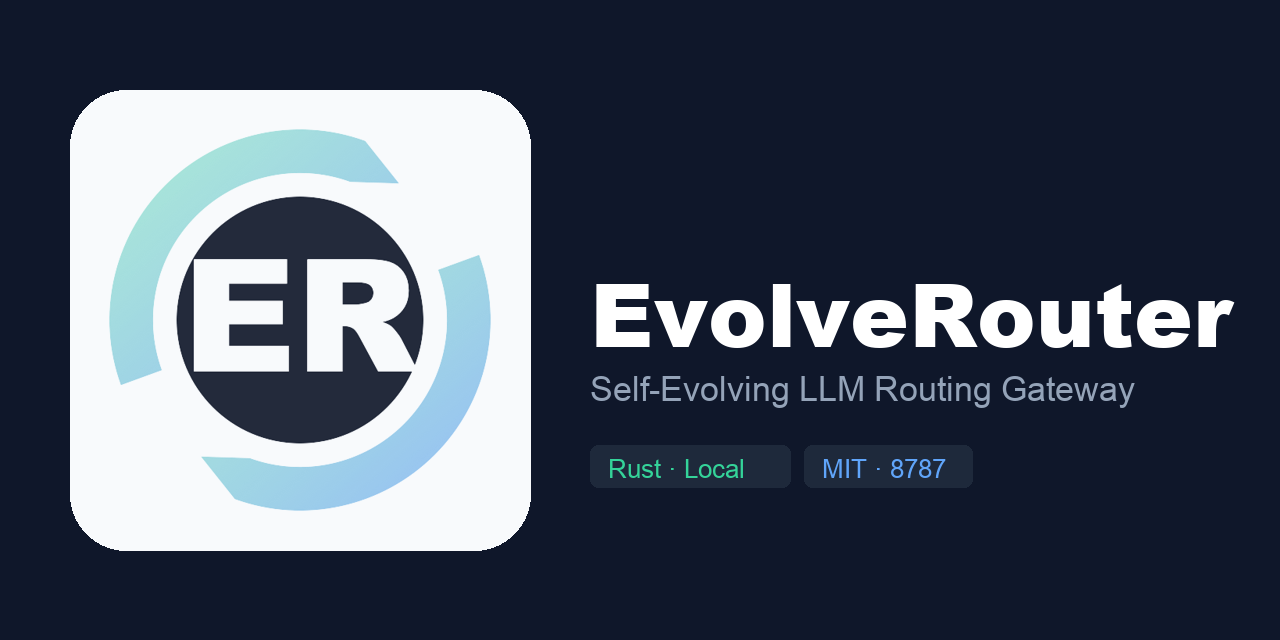
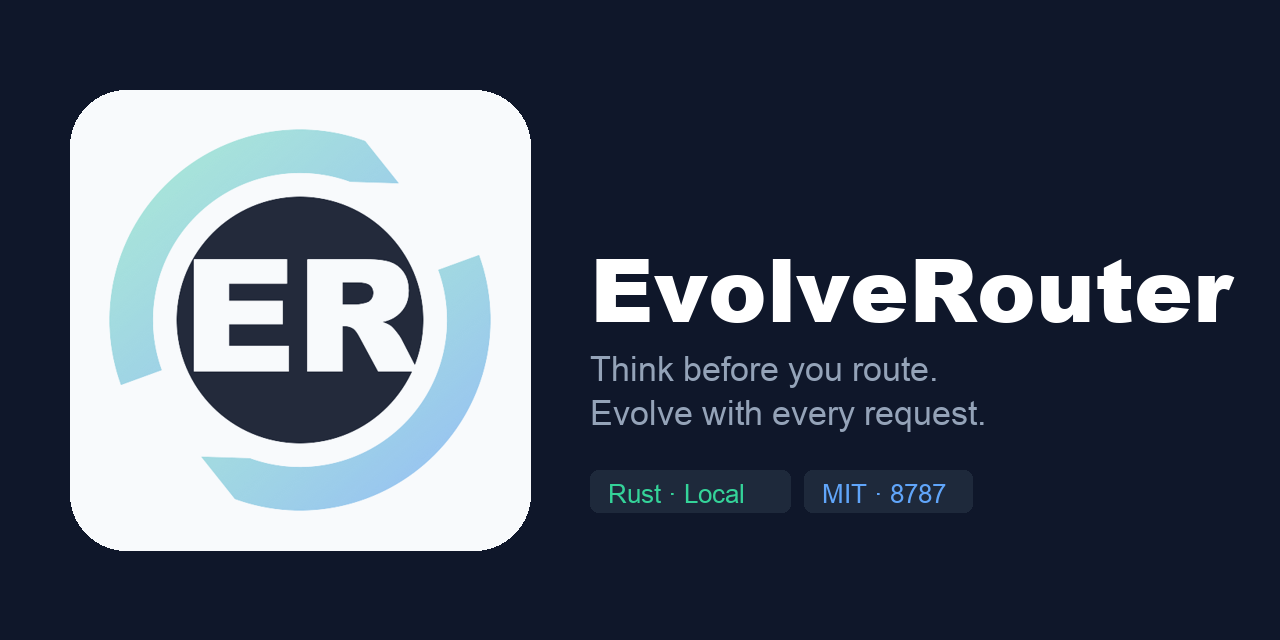
docs(brand): 定稿 Slogan 双语落地——H1 主 Slogan / 首屏副 Slogan+8 信号说明 / 正文产品描述（中英同步）+ social preview 卡副标题换新 Slogan

Changed region(s): [[0.4375, 0.4062, 0.9688, 0.6875], [0.625, 0.7188, 0.75, 0.7812], [0.4688, 0.7188, 0.5938, 0.7812]]

diff --git a/README.md b/README.md
@@ -2,9 +2,7 @@
 
 <img src="docs/assets/logo.png" width="128" alt="EvolveRouter logo">
 
-# EvolveRouter
-
-**A local LLM routing gateway with a decision model at its core. It evolves with every request.**
+# EvolveRouter: Think Before You Route. Evolve With Every Request.
 
 [![License](https://img.shields.io/badge/license-MIT-blue.svg)](LICENSE)
 [![Rust](https://img.shields.io/badge/rust-stable-orange.svg)](https://www.rust-lang.org)
@@ -16,15 +14,13 @@
 
 ---
 
-> **Not the best model — the right one, for every request.**
+> **Save tokens. Spend them where they matter.**
 >
-> A local-first LLM routing gateway: a decision model judges every request's task profile, a flywheel learns from every outcome, and a scientific formula keeps every decision traceable. **Your data never leaves your machine.**
+> EvolveRouter is a **local-first, self-evolving LLM router** that sits between your agent and every model you use. A pluggable **decision model** judges each request across **8 signals** — domain, difficulty, vision needs, triviality, tool density, stakes, session depth, size — before a single token is spent. A **4-layer feedback flywheel** learns from every outcome, so routing sharpens the more you use it. Every decision is **local, transparent, and auditable**: JSONL event logs, `x-ev-model / x-ev-reason / x-ev-decision-id` response headers, and a zero-build dashboard at `127.0.0.1:8787`. **Your data never leaves the host.** One **6.7 MB Rust binary**, zero runtime dependencies, no Docker, no Python, no cloud. When the decision model is unreachable, a multilingual heuristic takes over and **routing never blocks**. Works with **OpenAI & Anthropic compatible models** and coding agents like **opencode, Claude Code, Codex, Pi, openclaw, hermes**.
 
 ![EvolveRouter architecture](docs/assets/architecture.svg)
 
-**EvolveRouter** is a local-first routing gateway that sits between your Agent and every LLM provider you use. It doesn't ship every request to the "best" model — it routes each one to the **most suitable** one, judged on the fly by a **decision model** (any System-One-compatible backend — cloud or self-hosted — plus a multilingual heuristic second opinion, take-conservative fusion) against what the task actually needs and what your providers can afford right now. Every request feeds the flywheel, so the routing gets sharper the more you use it.
-
-What makes it different: every decision is **local, transparent, and auditable** — JSONL event log, response headers (`x-ev-model / x-ev-reason / x-ev-decision-id`), zero-build dashboard. User data never leaves the host. And when the decision model is unavailable, the heuristic takes over and **routing never blocks**.
+EvolveRouter is a local-first LLM routing gateway built on a simple idea: think before you route, and evolve with every request. Instead of static rules, a pluggable decision model judges every request's task profile, dynamically selects the most suitable model, and continuously optimizes routing from real-world outcome data. A 4-layer feedback flywheel turns every request into a learning signal, so the router gets smarter the more you use it. The result: you save tokens and spend them where they matter. Every decision is fully auditable — local JSONL logs, response headers, and a zero-build dashboard. One 6.7 MB Rust binary, zero cloud dependency, no Docker, no Python. Quota-aware budget protection. Works with all OpenAI/Anthropic compatible models and coding agents. Your prompts never leave your machine.
 
 
 ## Why not another proxy

diff --git a/README.zh-CN.md b/README.zh-CN.md
@@ -2,9 +2,7 @@
 
 <img src="docs/assets/logo.png" width="128" alt="EvolveRouter logo">
 
-# EvolveRouter
-
-**本地优先的 LLM 路由网关，内建决策模型，每次请求都在进化。**
+# EvolveRouter：先思考，再路由。每一次请求，都让路由更聪明。
 
 [![License](https://img.shields.io/badge/license-MIT-blue.svg)](LICENSE)
 [![Rust](https://img.shields.io/badge/rust-stable-orange.svg)](https://www.rust-lang.org)
@@ -16,13 +14,11 @@
 
 ---
 
-> **不选最好的模型——选最合适的。**
+> **省下 Token，花在刀刃上。**
 >
-> 一个本地部署的 LLM 智能路由网关：决策模型逐请求判定任务画像，飞轮从每次结果中学习，科学公式保证每次决策可追溯。**你的数据从不出主机。**
+> EvolveRouter 是一个**本地优先的自进化 LLM 路由网关**，部署在你的 Agent 和所有模型之间。可插拔的**决策模型**在消耗任何 Token 之前，先对每个请求进行 **8 维度判断**——领域、难度、视觉需求、琐碎度、工具密度、风险、会话深度、尺寸。**4 层反馈飞轮**从每次结果中学习，越用越准。所有决策**本地、透明、可审计**：JSONL 事件日志、响应头 `x-ev-model / x-ev-reason / x-ev-decision-id`，以及零构建仪表盘 `127.0.0.1:8787`。**数据永不离开本机。** 一个 **6.7 MB Rust 单二进制**，零运行时依赖，无需 Docker，无需 Python，无需云端。决策模型不可用时自动降级为多语言启发式，**路由永不阻塞**。兼容 **OpenAI/Anthropic 模型**及 **opencode、Claude Code、Codex、Pi、openclaw、hermes** 等编程 Agent。
 
-**EvolveRouter** 是一个本地优先的智能路由网关，架在你的 Agent 与所有 LLM Provider 之间——opencode / Claude Code / Codex / Pi / openclaw / hermes / dsh 及任何 OpenAI、Anthropic 兼容客户端都开箱接入。它不把每个请求都发给「最好的」模型——而是按任务画像（可插拔决策模型 + 多语言启发式第二意见，取严融合，逐请求判 8 维信号）**实时判 每次请求最合适的那一个**，并叠加方案画像（每方案自有货币先计价再评分）。**每次请求都喂飞轮**，路由越用越准。
-
-差异化在于——决策**本地、过程透明、可审计**：每条边、每个分、每道降级都带名带值（`x-ev-model / x-ev-reason / x-ev-decision-id` 头 + JSONL 事件日志 + 零构建面板）；用户数据从不出主机。决策模型不可达时启发式接管，**路由永不阻塞**。
+EvolveRouter 是一个本地优先的 LLM 路由网关，核心理念很简单：先思考，再路由；每一次请求，都让路由更聪明。与静态规则路由不同，它通过可插拔的决策模型判断每个请求的任务画像，动态选择最合适的模型，并基于真实结果数据持续优化路由策略。4 层反馈飞轮把每次请求都变成学习信号，越用越准。最终效果是：省下 Token，花在刀刃上。所有决策完全可审计——本地 JSONL 日志、响应头、零构建仪表盘。一个 6.7 MB Rust 单二进制，零云端依赖，无需 Docker，无需 Python。配额感知预算保护。兼容所有 OpenAI/Anthropic 模型及编程 Agent。你的提示词永不离开本机。
 
 ![EvolveRouter 架构](docs/assets/architecture.svg)
 
